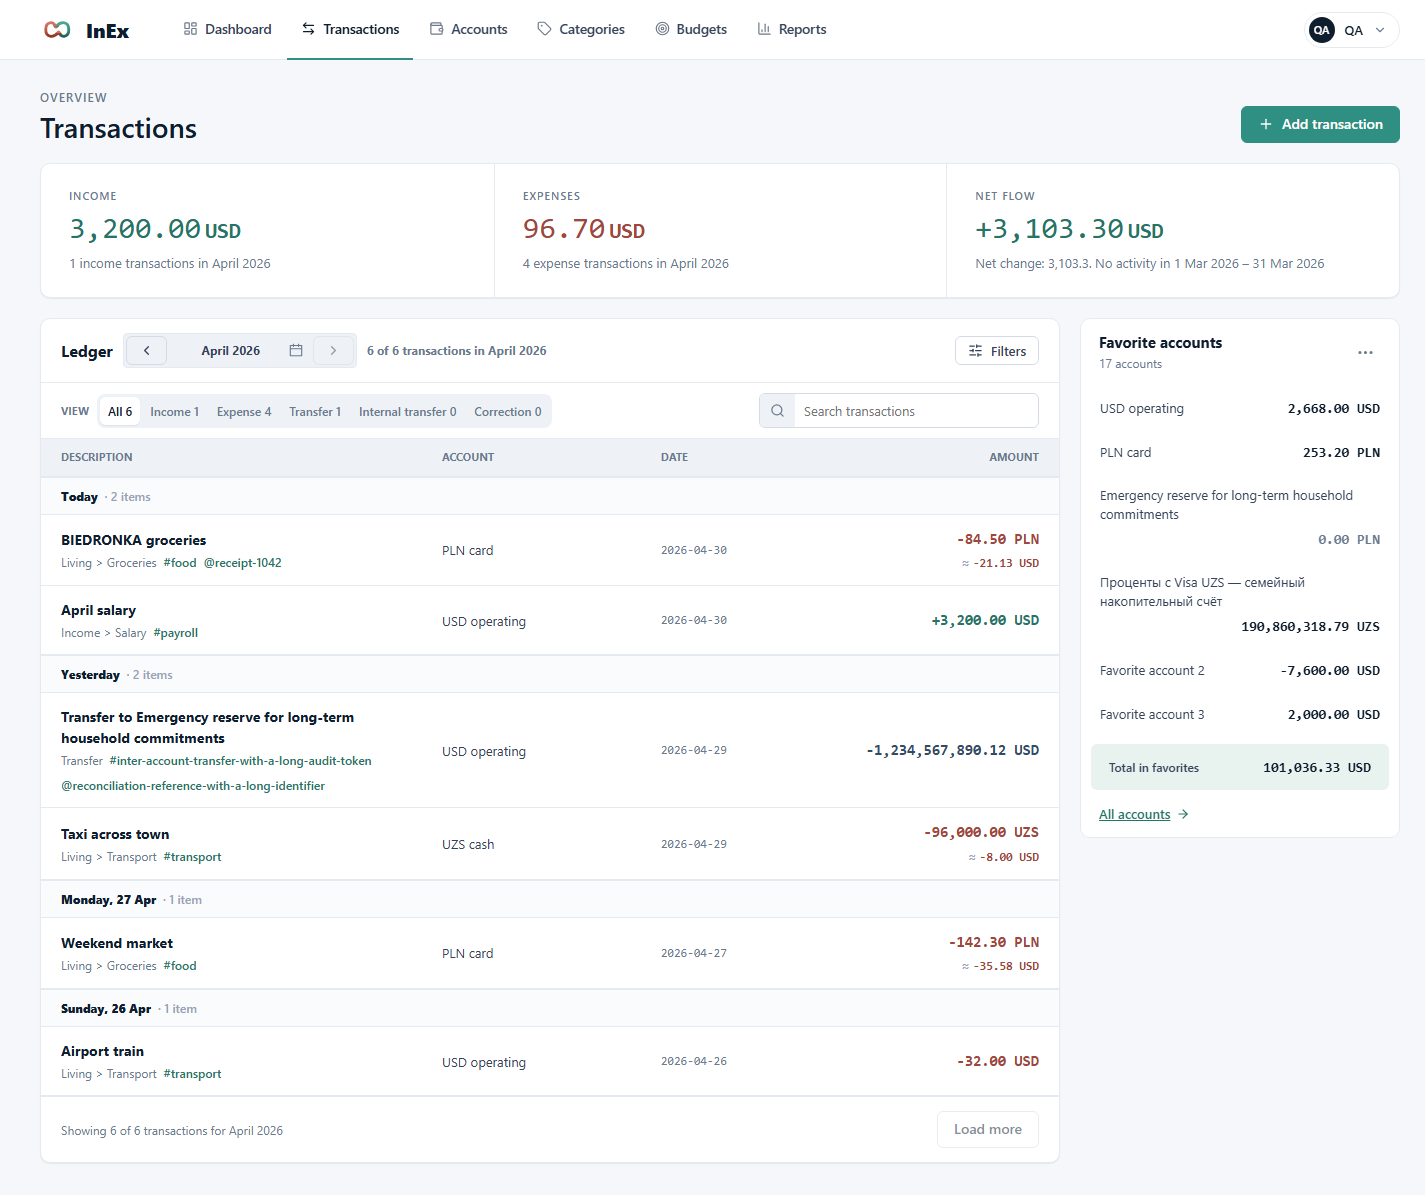
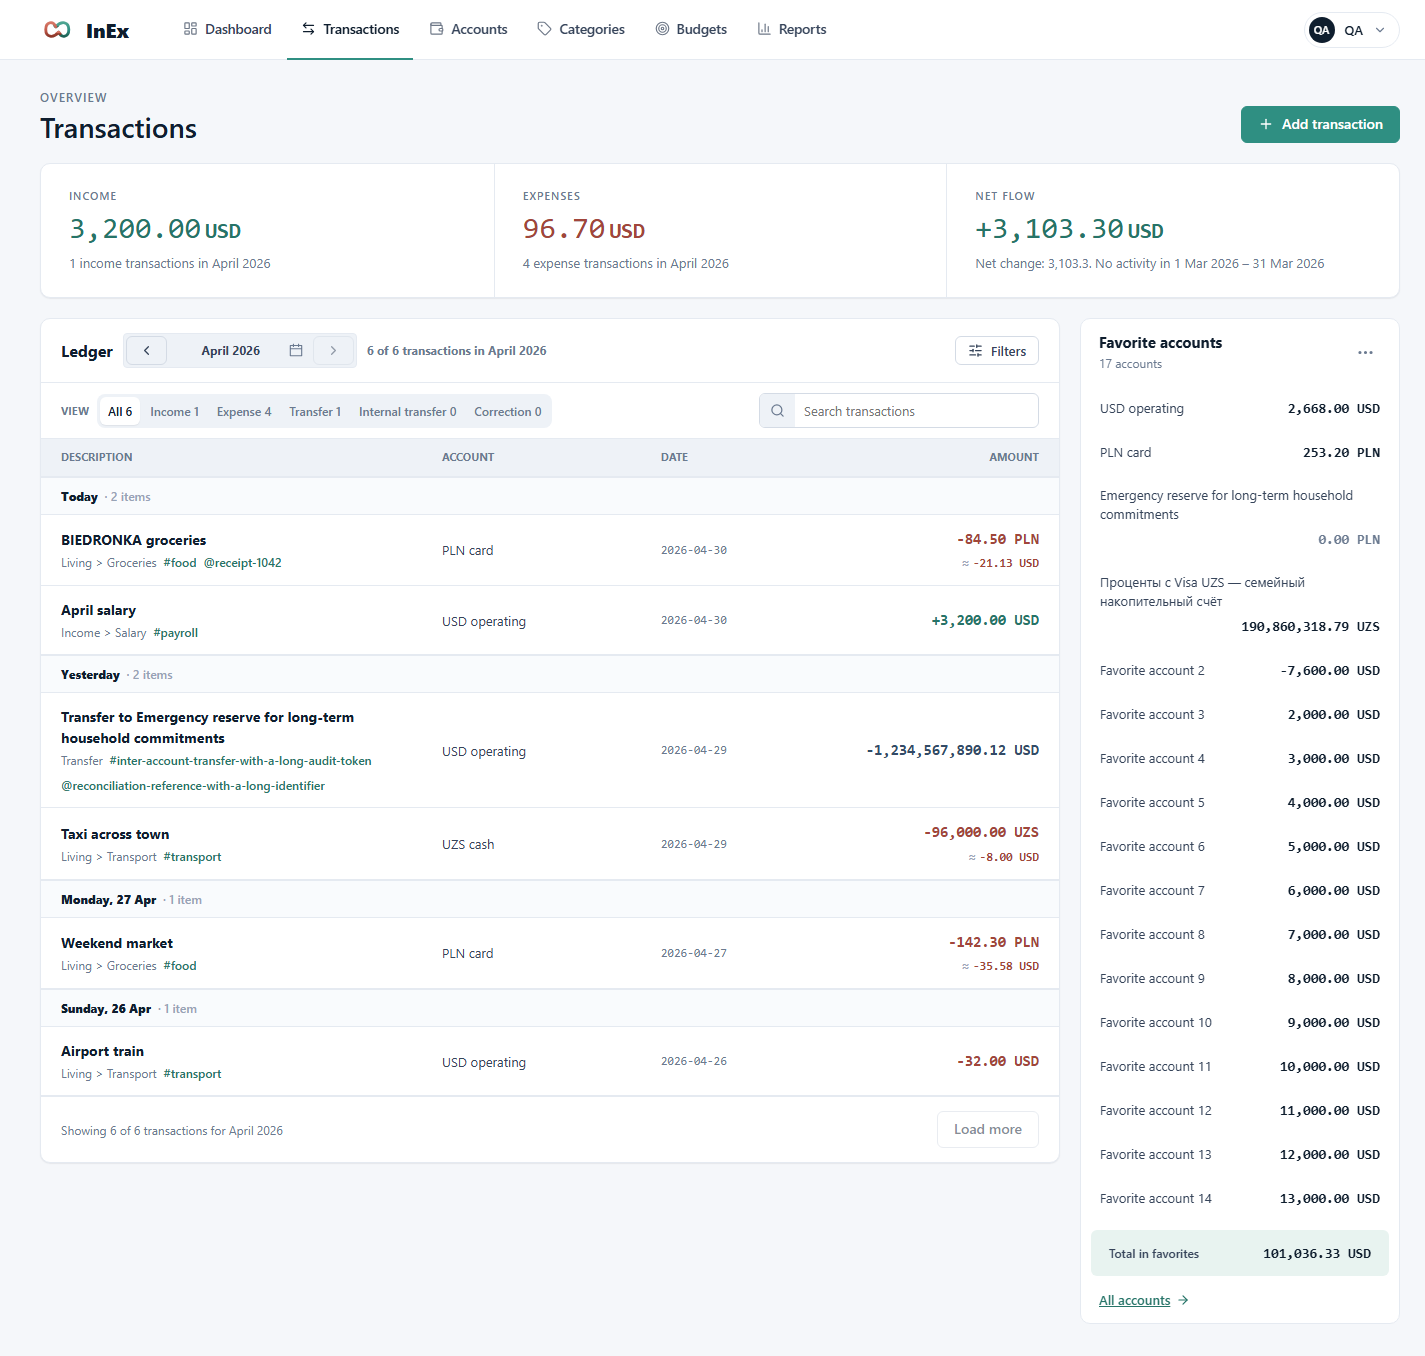
fix: let favorite accounts list grow naturally (#431)

diff --git a/inex/ClientApp/src/pages/Transactions/transactions-ledger.css b/inex/ClientApp/src/pages/Transactions/transactions-ledger.css
@@ -197,11 +197,7 @@
 .transactions-account-balances__list {
     list-style: none;
     margin: 0;
-    max-height: min(44vh, 380px);
-    overflow-y: auto;
-    overscroll-behavior: contain;
     padding: 0 10px 4px;
-    scrollbar-width: thin;
 }
 
 .transactions-account-balances__account {

diff --git a/docs/design/docs/visual-qa-checklist.md b/docs/design/docs/visual-qa-checklist.md
@@ -324,3 +324,7 @@ Data mode: fixture. PASS 21/21 states in `docs/implementation/visual-qa/favorite
 Inspected desktop selected, tablet drawer, narrow selected, desktop stress, Russian pinned and Russian drawer stress screenshots. The separate Russian drawer screenshot exposes the complete large UZS balance without the fixed-navigation capture overlay in the full-page pinned screenshot. Names wrap, amounts remain readable, and the summary/footer stay outside the scrolling account list. Keyboard pressed state, Enter/Space activation, menu navigation, Escape isolation and pluralization also have component coverage.
 
 Build/typecheck, lint and 65 focused frontend tests pass. Three review layers found one keyboard propagation defect, now fixed and covered by component/CDP regression; follow-up reviewer confirmed closure. The aggregate visual verifier reports FAIL solely for ten untouched canonical summaries older than 24 hours. This fresh feature summary has zero failures. The documented alternate QA port and authorized browser process escalation resolved local runtime restrictions.
+
+### Follow-up: natural-height favorite list
+
+The user replaced the bounded-list requirement with downward expansion. Refreshed fixture QA passes all 21 favorite-sidebar states at 1440/1024/390/360px, including all 17 stress accounts without internal list scrolling. The total and All accounts link follow the complete list. Page and drawer scrolling remain available. Inspected desktop stress, Russian pinned mobile and Russian drawer captures in `docs/implementation/visual-qa/favorite-accounts-sidebar/`. The full-page mobile capture includes the existing fixed-navigation overlay at the initial viewport position; content remains reachable through page scrolling. Build/typecheck and lint pass; every API request was intercepted and no backend/provider was called.

diff --git a/docs/implementation/spec-favorite-accounts-natural-height.md b/docs/implementation/spec-favorite-accounts-natural-height.md
@@ -1,0 +1,26 @@
+---
+title: Favorite accounts list with natural height
+type: bugfix
+created: '2026-11-07'
+status: done
+route: one-shot
+---
+
+# Favorite accounts list with natural height
+
+## Intent
+
+**Problem:** The favorite accounts widget limits its list height and requires internal scrolling to reach all accounts.
+
+**Approach:** Remove the list height and scrolling rules so the widget grows downward with every account. The total and All accounts link follow the complete list. This replaces the bounded-list behavior from the earlier favorite sidebar specification at the user's request; existing drawer and page scrolling remain available.
+
+## Suggested Review Order
+
+- Inspect the natural-height list styling.
+  [transactions-ledger.css:197](../../inex/ClientApp/src/pages/Transactions/transactions-ledger.css#L197)
+- Check that fixture QA rejects internal list scrolling and retains all 17 stress accounts.
+  [transactions.mjs:1215](../../inex/ClientApp/visual-qa/transactions.mjs#L1215)
+- Inspect desktop and narrow Russian stress captures and the 21-state fixture summary.
+  [QA summary](visual-qa/favorite-accounts-sidebar/qa-summary.json)
+  [Desktop](visual-qa/favorite-accounts-sidebar/account-overview-stress-1440.png)
+  [Russian mobile](visual-qa/favorite-accounts-sidebar/account-overview-stress-ru-360.png)
